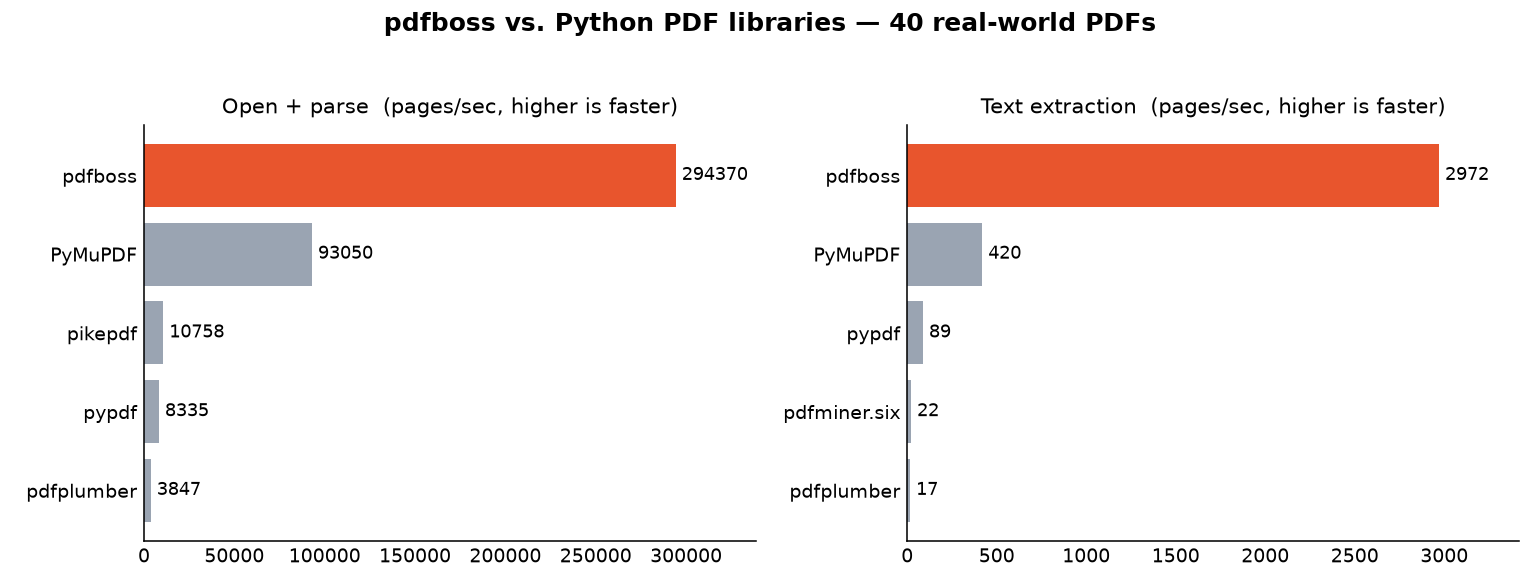
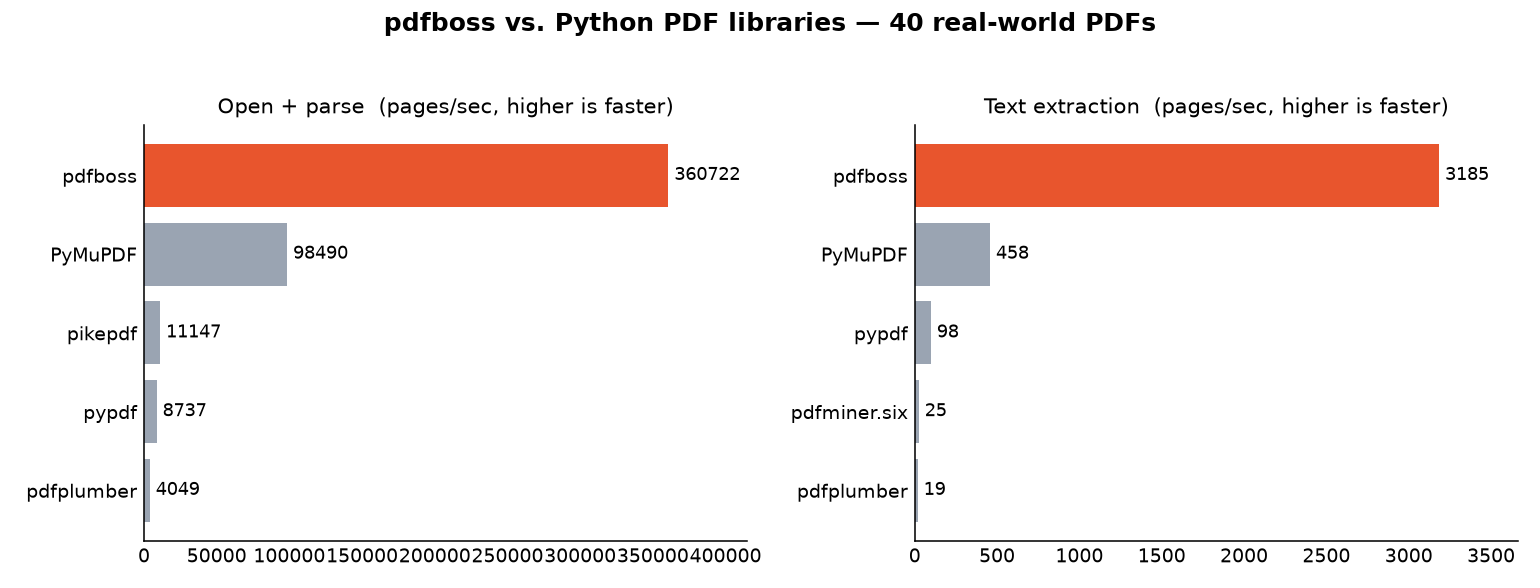
docs: remeasure both benchmarks on an idle machine
Every library came out faster than the previous pass, which was taken at
about 70% CPU idle against 76-79% here, so the absolutes move together
and only the within-pass ratios carry meaning. Scan rendering is 88.5
pages/s against 59.5 for the fastest of the three C-backed renderers.

That is 1.487x, a hair under the "1.50x to 1.56x" band the previous text
claimed, so the claim is now stated as within a few percent of 1.5x with
the observed range spelled out.

diff --git a/README.md b/README.md
@@ -116,7 +116,7 @@ Against other Python PDF libraries over 40 real-world PDFs (best-of-3 per file, 
   <img src="https://raw.githubusercontent.com/4thel00z/pdfboss/main/benchmarks/results.png" alt="pdfboss vs. Python PDF libraries" width="100%">
 </p>
 
-**pdfboss is the fastest library measured on both operations — including against the C-backed PyMuPDF.** On text extraction it reaches 2,972 pages/s versus PyMuPDF's 420 (≈7×), and 34–177× the pure-Python readers. On open + parse it reaches 294,000 pages/s versus PyMuPDF's 93,000 (≈3×): lazy page-tree loading means opening a document reads only its declared page count instead of parsing every page dictionary up front, so opening is close to free and the ratio says more about what the others do eagerly than about pdfboss. Rendering is not compared on this corpus — a few faces still go unpainted (see Limitations), so timing it against full renderers would flatter pdfboss for work it skipped. The scanned-document benchmark below is the render comparison, and it is fair precisely because a scan has no glyphs in it.
+**pdfboss is the fastest library measured on both operations — including against the C-backed PyMuPDF.** On text extraction it reaches 3,185 pages/s versus PyMuPDF's 458 (≈7×), and 32–170× the pure-Python readers. On open + parse it reaches 361,000 pages/s versus PyMuPDF's 98,000 (≈4×): lazy page-tree loading means opening a document reads only its declared page count instead of parsing every page dictionary up front, so opening is close to free and the ratio says more about what the others do eagerly than about pdfboss. Rendering is not compared on this corpus — a few faces still go unpainted (see Limitations), so timing it against full renderers would flatter pdfboss for work it skipped. The scanned-document benchmark below is the render comparison, and it is fair precisely because a scan has no glyphs in it.
 
 Numbers are machine-dependent; reproduce with [`benchmarks/bench.py`](benchmarks/README.md).
 
@@ -126,12 +126,12 @@ Scans are the other half of the world's PDFs, and they are a different workload:
 
 | Library | pages/sec | Ink on page 1 |
 |---|--:|--:|
-| pdfboss | 81.4 | 4.83% |
-| pdfplumber (via pdfium) | 54.4 | 4.87% |
-| pypdfium2 | 51.8 | 4.85% |
-| PyMuPDF | 50.5 | 4.82% |
+| pdfboss | 88.5 | 4.83% |
+| pdfplumber (via pdfium) | 59.5 | 4.87% |
+| pypdfium2 | 55.6 | 4.85% |
+| PyMuPDF | 55.3 | 4.82% |
 
-**pdfboss is the fastest of the four here, at about 1.5× the C-backed renderers** — and the only one of them with no C in it. Compare the four rows against each other rather than against another machine's: all four are timed in one pass, and that ratio has come out between 1.50× and 1.56× on every run, across absolute numbers that varied by half as the machine warmed and cooled.
+**pdfboss is the fastest of the four here, at about 1.5× the C-backed renderers** — and the only one of them with no C in it. Compare the four rows against each other rather than against another machine's: all four are timed in one pass, and that ratio has landed within a few percent of 1.5× on every run (1.49× to 1.56×), across absolute numbers that varied by half as the machine warmed and cooled.
 
 What is left is the codec itself. Four fifths of the time goes to the JBIG2 arithmetic decoder and the context formation feeding it, and that part is a serial dependency chain — every decision needs the interval state the previous one wrote, and every pixel's context contains the pixels just decoded — so it neither vectorizes nor parallelizes. The rest was arithmetic that did not need doing: expanding a packed scan into eight times its size in RGBA before sampling a fraction of it, blending opaque pixels through an alpha formula that returns them unchanged, and walking bitmaps a pixel at a time where a row of bytes would do.
 
